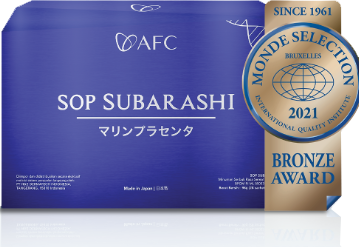
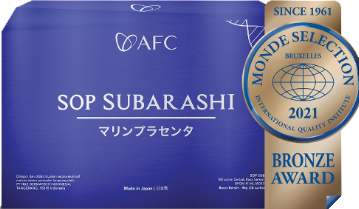
hero & service

diff --git a/index.html b/index.html
@@ -91,14 +91,13 @@
        </div>
     </section>
 
-    <section id="subarash" class="service mt-3">
+    <section id="subarash" class="service mt-2">
         <div class="container">
             <div class="row pt-4 pb-4">
                 
-
                 <div class="col-lg-6 align-self-start">
                     <div class="card-service">
-                        <img src="assets/img/icon-sop-subarashi.png" alt="" srcset="">
+                        <img src="assets/img/icon-sop-subarashi.png" alt="img-produk" srcset="">
                     </div>
                 </div>
 

diff --git a/assets/style.css b/assets/style.css
@@ -174,7 +174,8 @@ nav{
 /* style service */
 
 #subarash .card-service img{
-   width: 400px;
+ max-width: 100%;
+ width: 450px;
    
 }
 
@@ -268,6 +269,32 @@ nav{
 
 #service .card-left-service{
    display: none;
+}
+
+#subarash .card-service .card-title{
+   margin-top:15px;
+   padding:0;
+}
+
+#subarash .card-service p{
+   padding:0;
+   font-size:19px;
+}
+
+#subarash .card-service h3{
+   margin:0;
+   padding:0;
+   font-size:30px;
+}
+
+#subarash a{
+   margin:0;
+   padding:0;
+   font-size:17px;
+}
+
+#subarash span{
+   font-size :25px;
 }
 
 /* end screen service */
